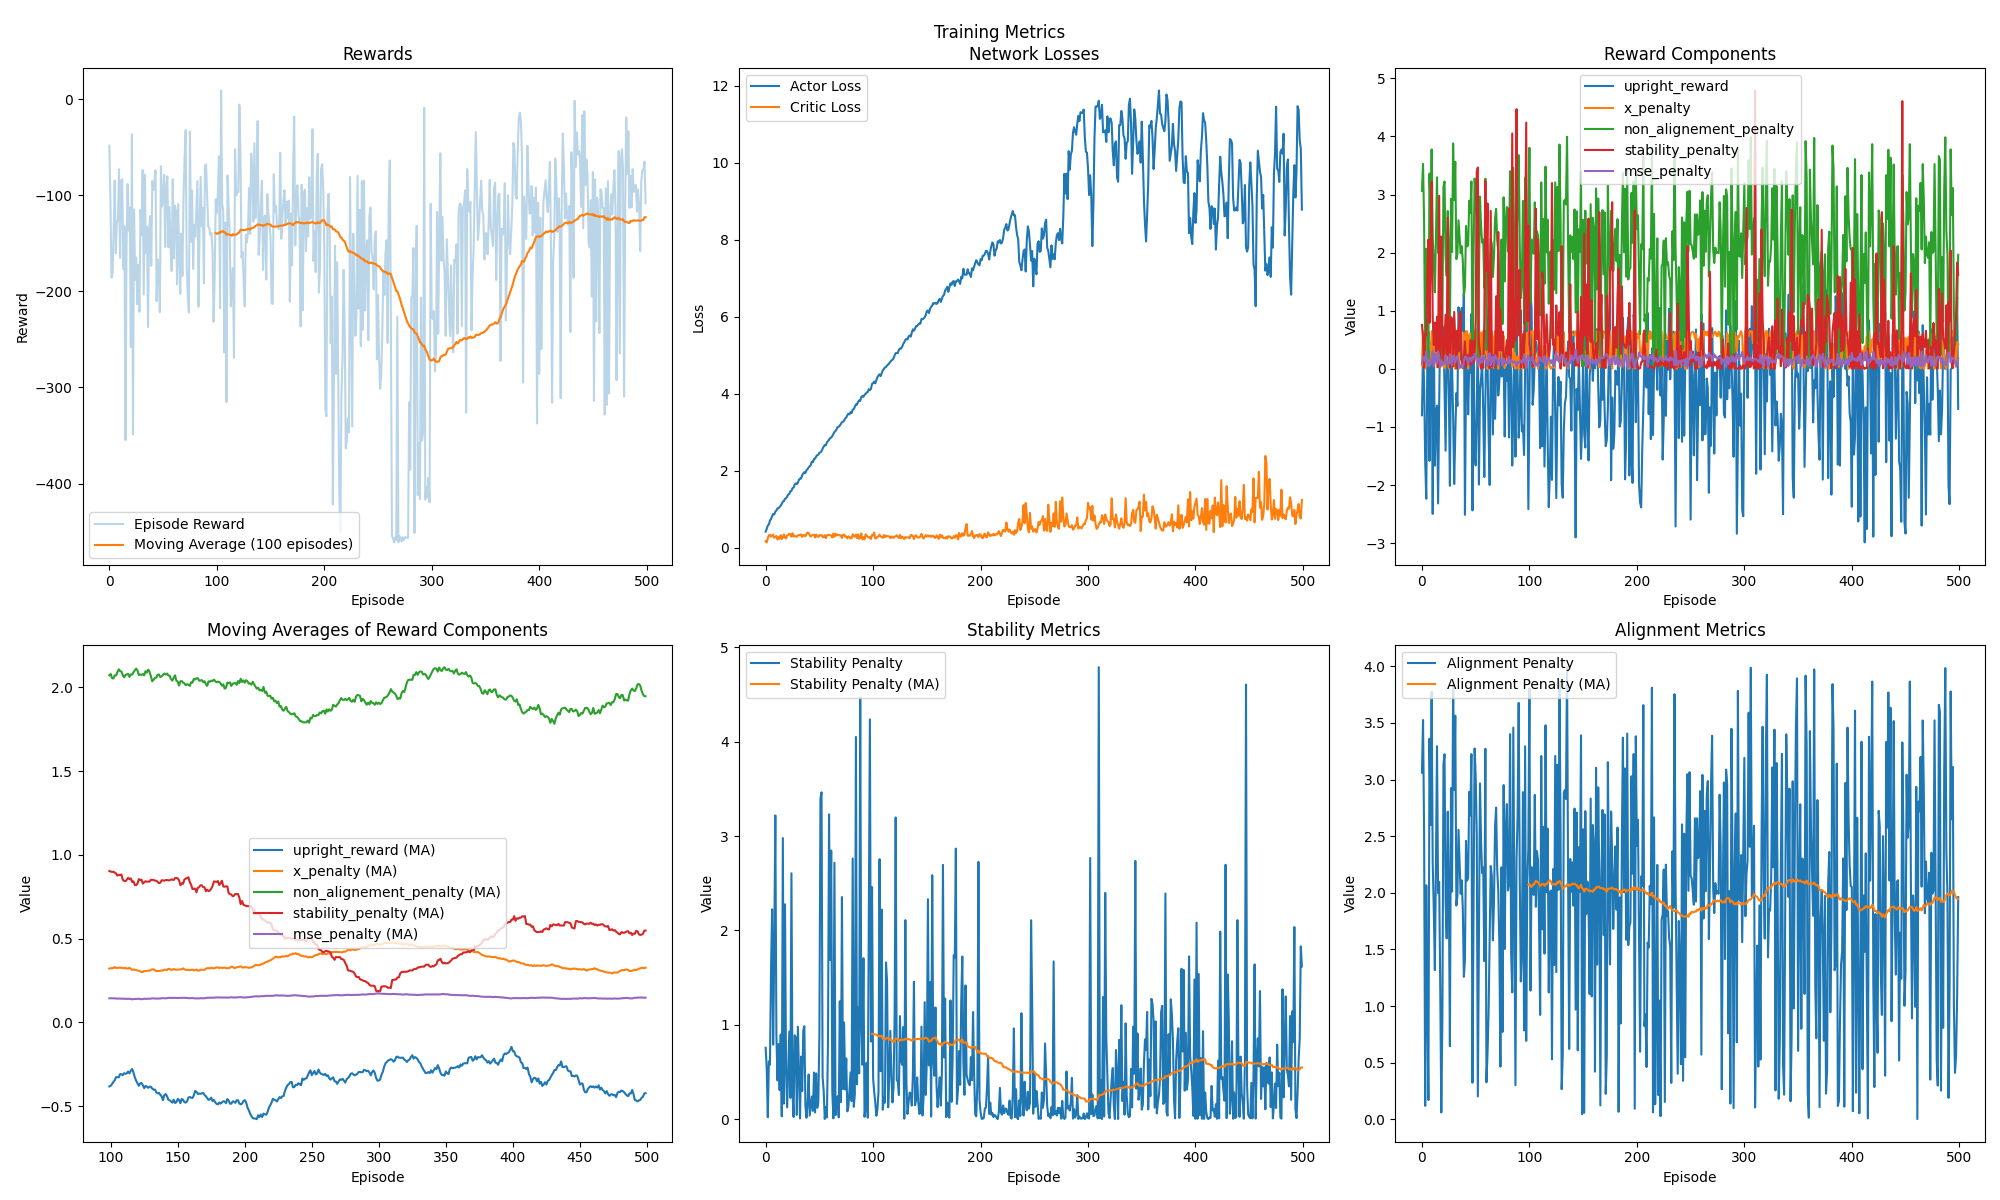
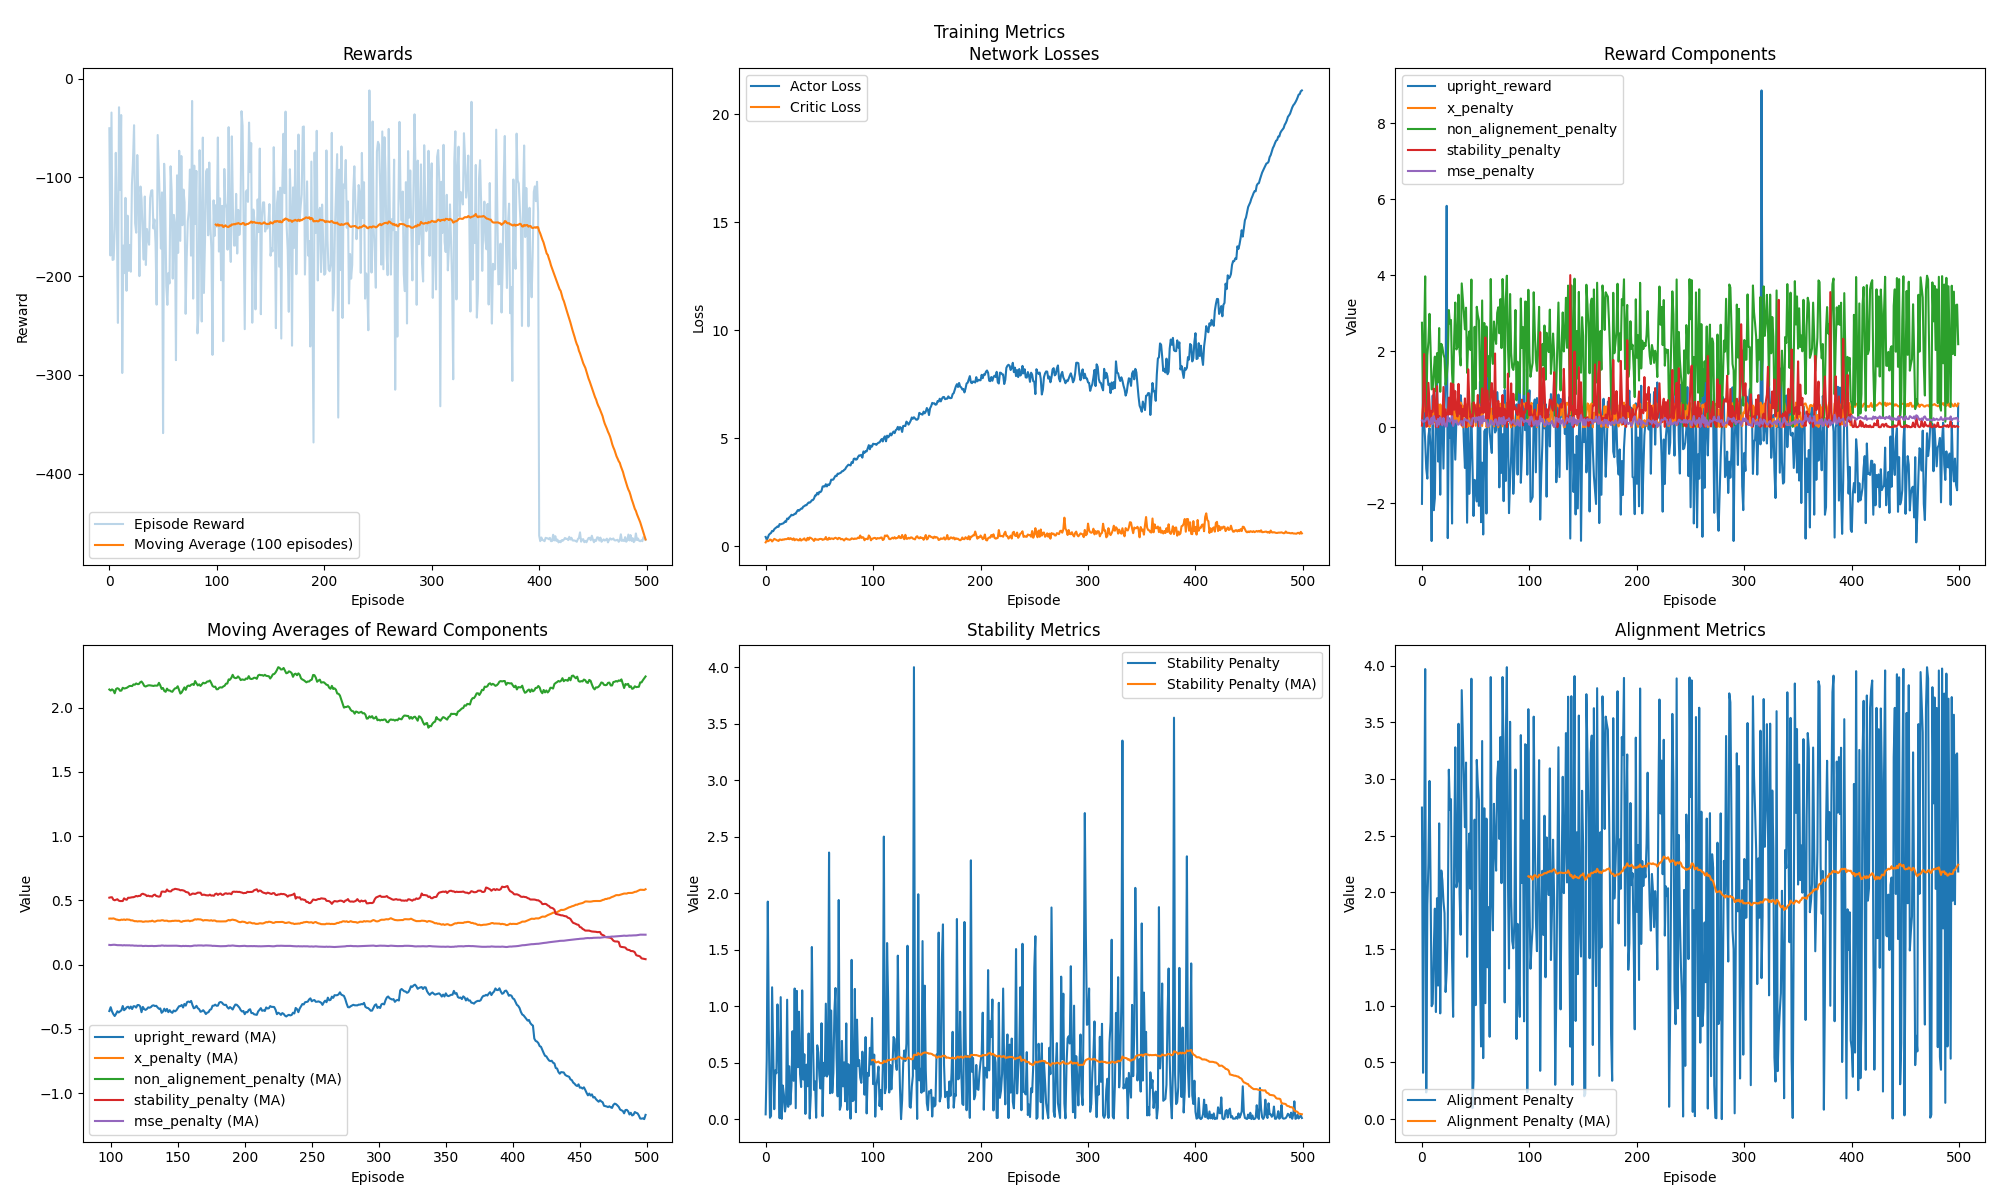
instant speed

diff --git a/tp_env.py b/tp_env.py
@@ -12,7 +12,7 @@ GRAVITY = config['gravity']
 DT = 0.01
 
 class TriplePendulumEnv:
-    def __init__(self, reward_manager=None, render_mode=None, num_nodes=config['num_nodes'], arm_length=1./3, bob_mass=0.01/3, friction_coefficient=config['friction_coefficient'], manual_force=True):
+    def __init__(self, reward_manager=None, render_mode=None, num_nodes=config['num_nodes'], arm_length=1./3, bob_mass=0.01/3, friction_coefficient=config['friction_coefficient']):
         self.reward_manager = reward_manager
         self.render_mode = render_mode
         self.n = num_nodes
@@ -20,7 +20,6 @@ class TriplePendulumEnv:
         self.bob_mass = bob_mass
         self.friction_coefficient = friction_coefficient
         self.cart_friction = 0.1
-        self.manual_force = manual_force
 
         # Paramètre de simulation pas-à-pas
         self.dt = DT  # Durée d'un pas de simulation
@@ -302,13 +301,12 @@ class TriplePendulumEnv:
         return state_with_positions
 
 
-    def step(self, action=0.0):
+    def step(self, action=0.0, manual_mode=False):
         """
-        Effectue un pas de simulation avec l'action donnée.
+        Effectue un pas de simulation avec l'action donnée (force appliquée).
         
         Args:
-            action (float): Si manual_force est True, force appliquée au chariot.
-                          Si manual_force est False, vitesse cible du chariot.
+            action (float): Force appliquée au chariot
             
         Returns:
             np.array: Le nouvel état après le pas de simulation
@@ -316,24 +314,17 @@ class TriplePendulumEnv:
         if self.current_state is None:
             self.reset()
         
-        if self.manual_force:
-            # Mode force manuelle
-            if (self.current_state[0] > 1.65 and action > 0):
-                action = -0.1
-            elif (self.current_state[0] < -1.65 and action < 0):
-                action = 0.1
-                
-            # Appliquer le lissage à la force
-            force_smoothing = 0.1
+        if (self.current_state[0] > 1.65 and action > 0) :
+            action = -0.1
+        elif (self.current_state[0] < -1.65 and action < 0):
+            action = 0.1
+            
+        # Appliquer le lissage à la force
+        force_smoothing = 0.1
+        if manual_mode:
             self.applied_force += force_smoothing * (action - self.applied_force)
         else:
-            # Mode vitesse directe
-            num_joints = len(self.positions)
-            current_velocity = self.current_state[num_joints]
-            velocity_error = action - current_velocity
-            # Contrôleur PID simple pour atteindre la vitesse cible
-            kp = 2.0  # Gain proportionnel
-            self.applied_force = kp * velocity_error
+            self.applied_force = action
         
         # Calcul du nouvel état
         state_derivative = self.rhs(self.current_state, self.current_time, self.parameter_vals, lambda state: self.applied_force)
@@ -361,7 +352,7 @@ class TriplePendulumEnv:
         self.current_state = next_state
         self.current_time += self.dt
 
-        terminated = False
+        terminated = False # abs(self.current_state[0]) > 1.6
         
         return self.get_state(), terminated
         
@@ -591,7 +582,7 @@ class TriplePendulumEnv:
         
         return True
 
-    def animate_pendulum_pygame(self, max_steps, states=None, length=None, title='Pendulum', manual_mode = False):
+    def animate_pendulum_pygame(self, max_steps, manual_mode, title):
         """
         Anime le pendule en utilisant les méthodes step et render.
         
@@ -672,8 +663,7 @@ class TriplePendulumEnv:
                         target_force = 0.0
             
             # Mise à jour de la force et de l'état
-            self.applied_force += force_smoothing * (target_force - self.applied_force)
-            next_state, terminated = self.step(self.applied_force)
+            next_state, terminated = self.step(target_force, manual_mode)
             
             # Rendu avec informations sur l'épisode et epsilon
             if not self.render(episode=episode, epsilon=epsilon, current_step=self.num_steps):
@@ -694,4 +684,4 @@ if __name__ == "__main__":
     
     # Utilisation avec les nouvelles méthodes
     env.reset()
-    env.animate_pendulum_pygame(max_steps=10_000, title='Simulation Triple Pendule', manual_mode = True)
+    env.animate_pendulum_pygame(max_steps=10_000, manual_mode = True, title='Simulation Triple Pendule')

diff --git a/train.py b/train.py
@@ -62,7 +62,7 @@ class TriplePendulumTrainer:
         action_dim = 1
         self.actor = TriplePendulumActor(state_dim, action_dim, config['hidden_dim'])
         self.critic = TriplePendulumCritic(state_dim, action_dim, config['hidden_dim'])
-        self.num_exploration_episodes = 200
+        self.num_exploration_episodes = 400
 
         # Optimizers
         self.actor_optimizer = torch.optim.Adam(self.actor.parameters(), lr=config['actor_lr'])
